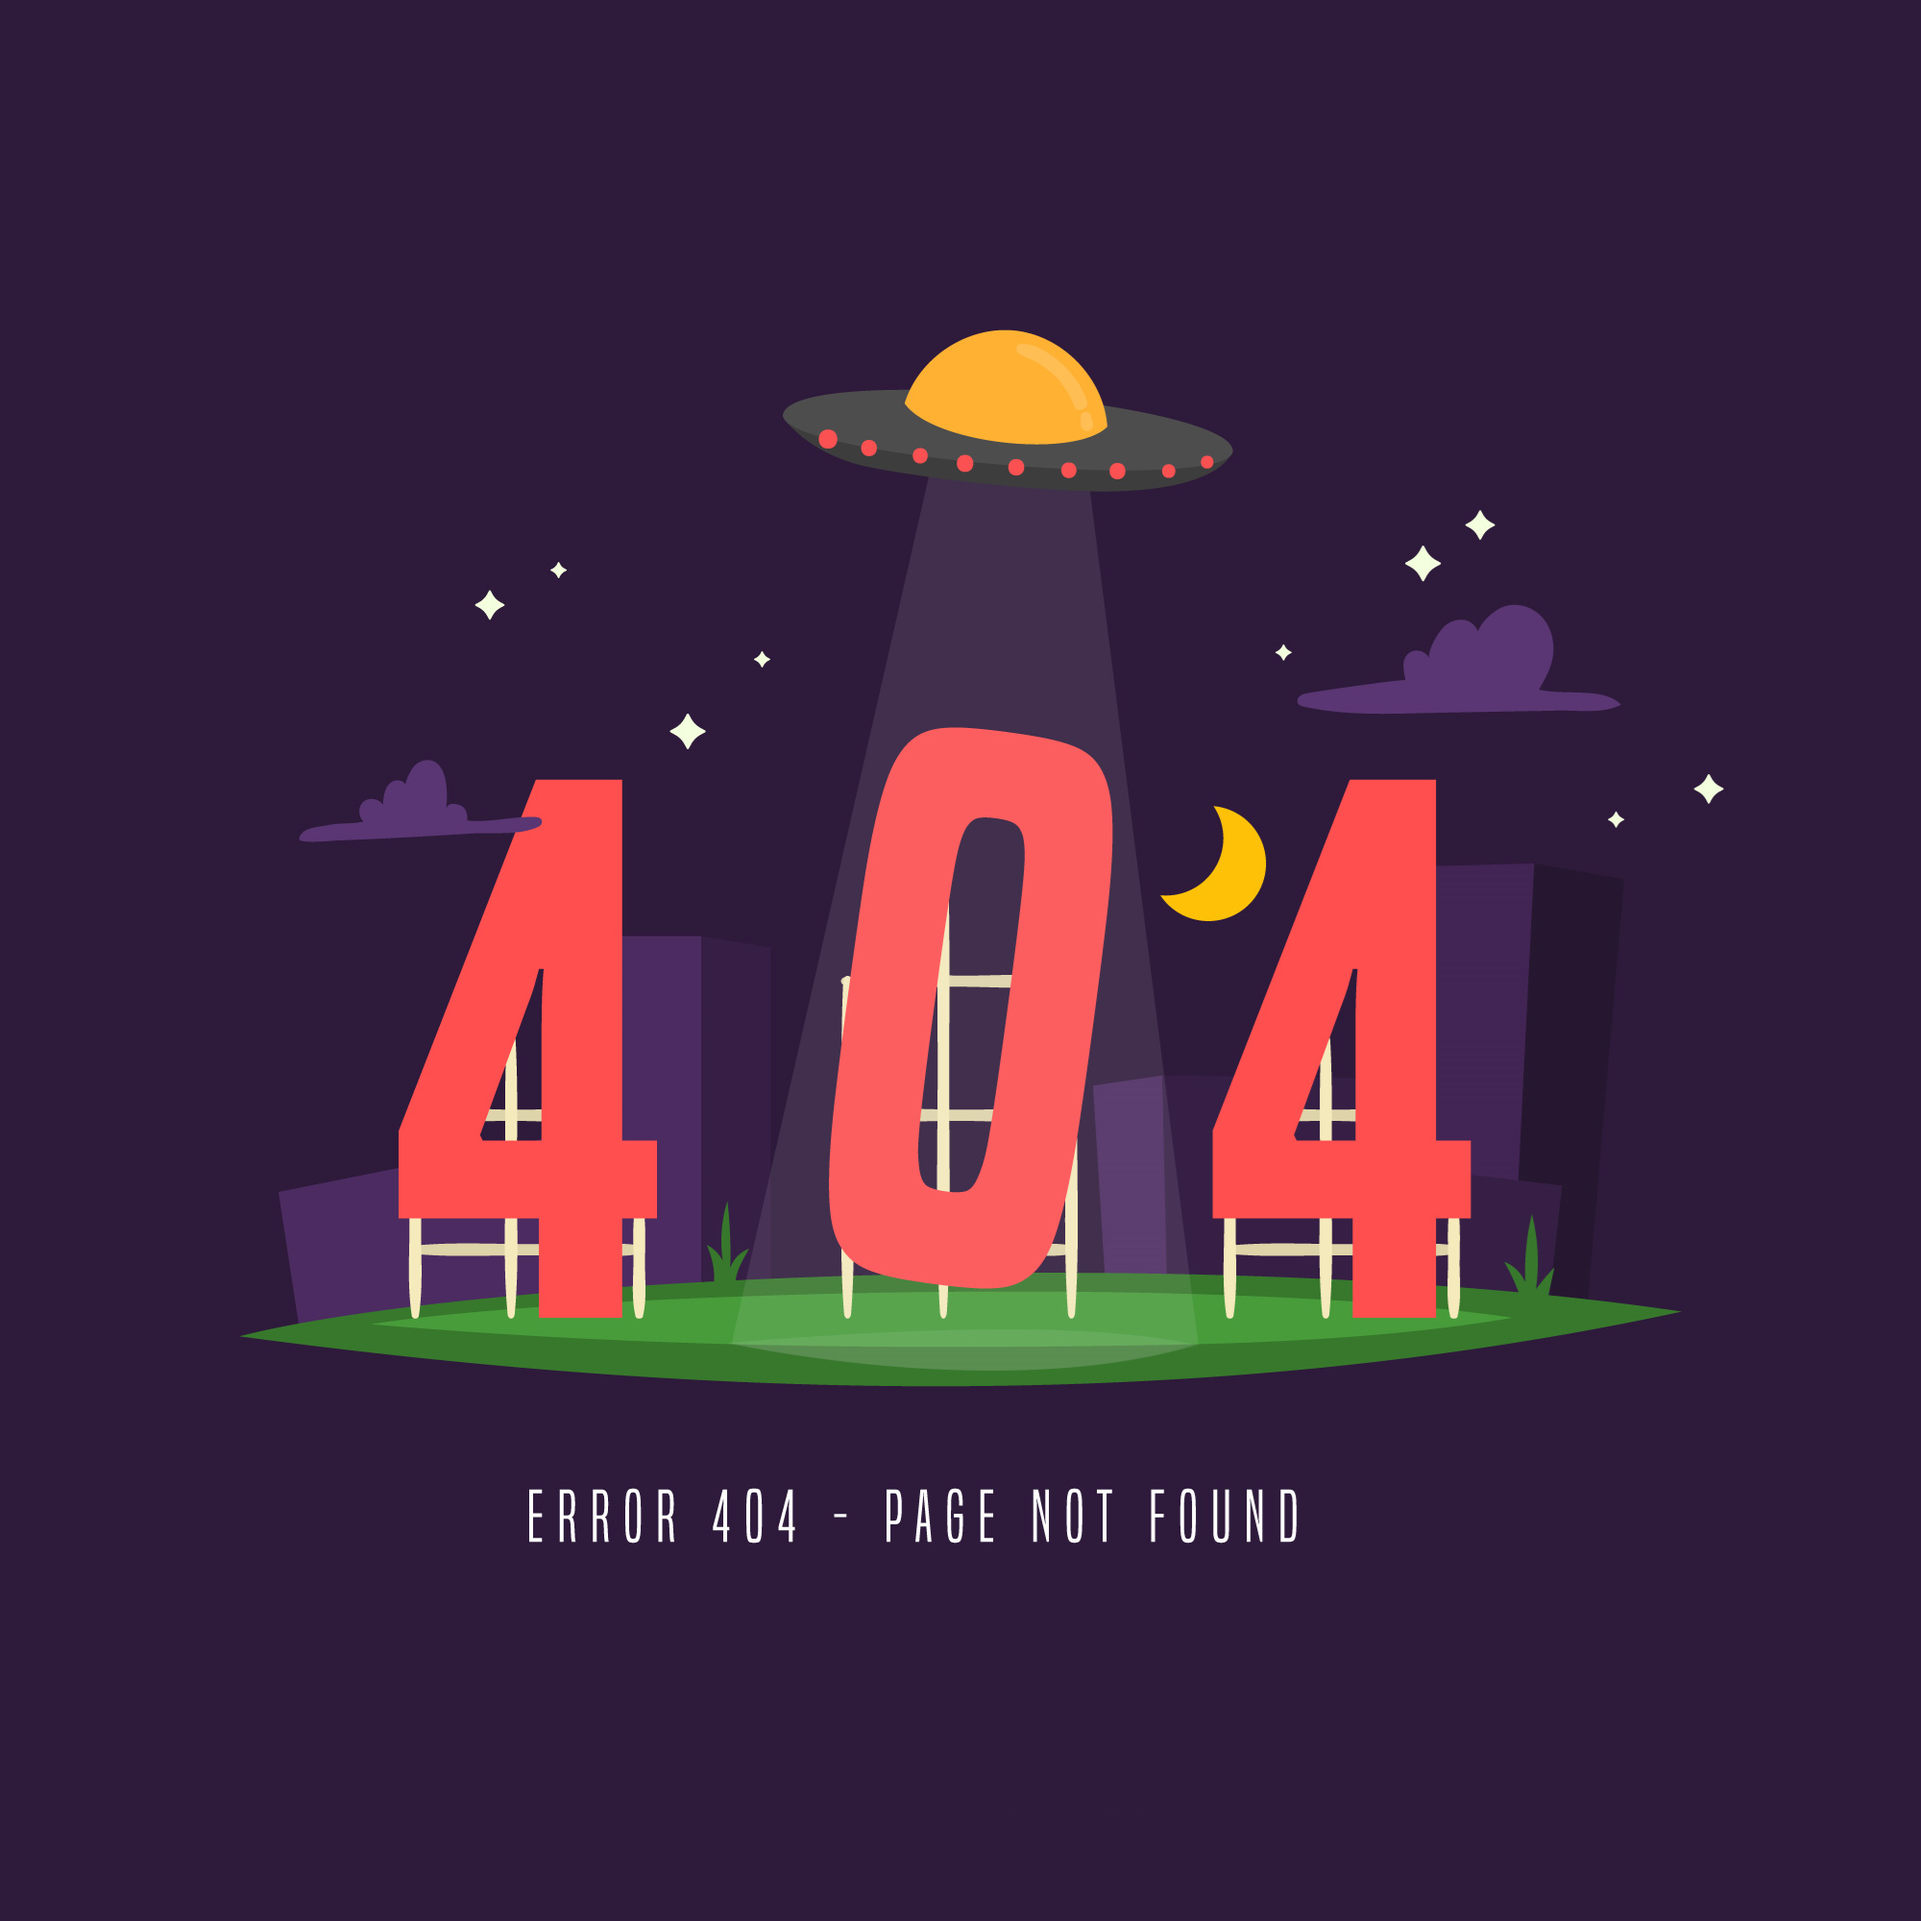
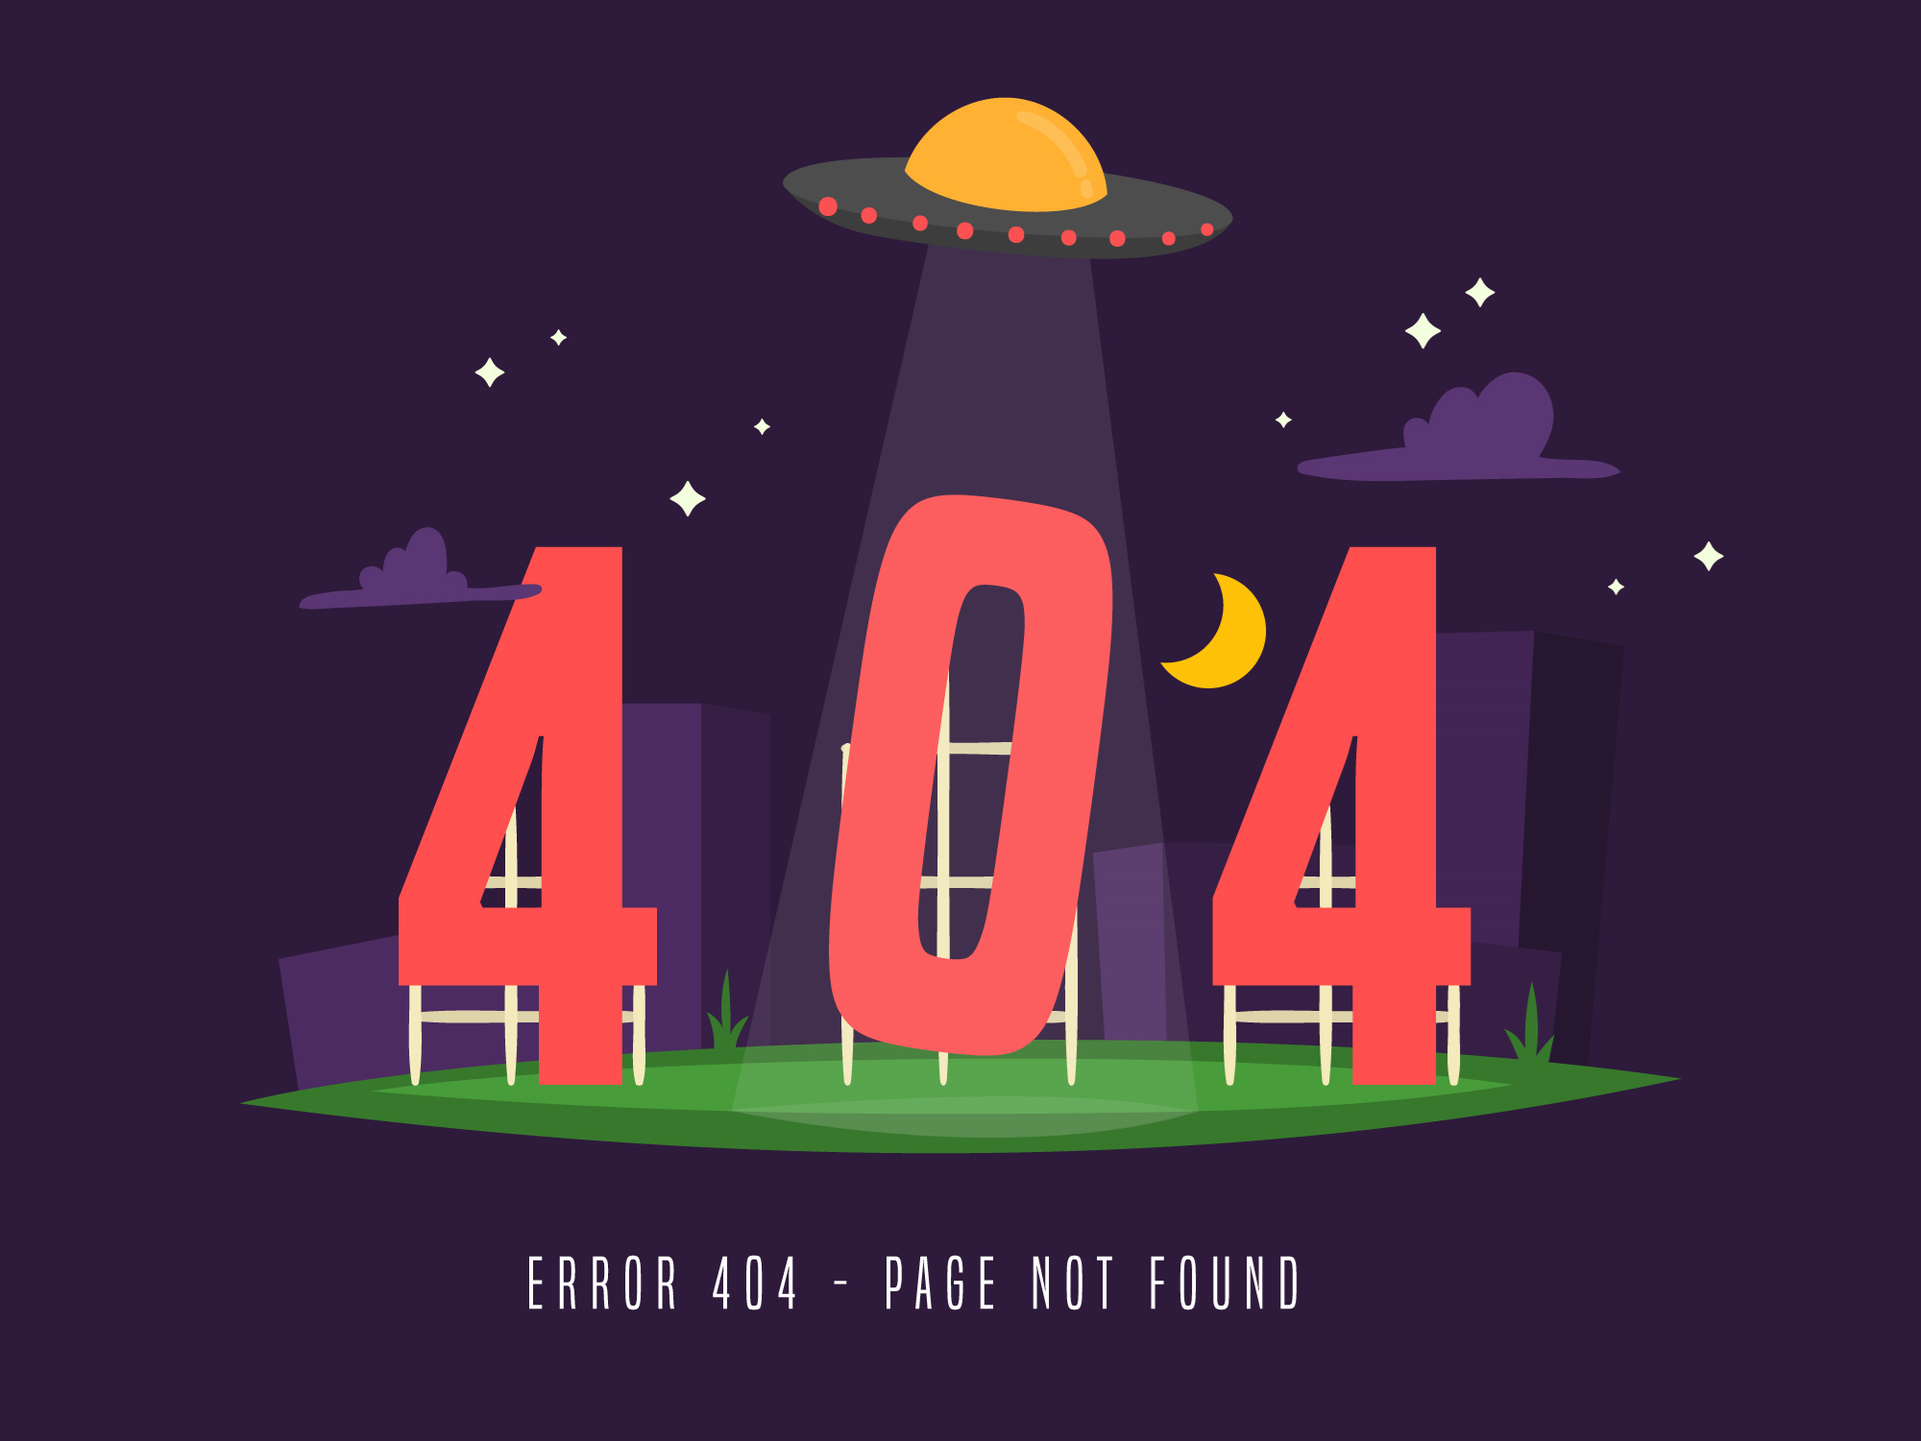
reponsividade 404

diff --git a/src/css/style.css b/src/css/style.css
@@ -134,13 +134,22 @@ main {
 
 .page_not_found {
   width: 100%;
-  height: 100%;
-  background-color: #2e1b3b;
-  text-align: center;
+  height: -moz-fit-content;
+  height: fit-content;
+  display: flex;
+  justify-content: center;
+  gap: 0;
+  flex-direction: row;
+  align-items: center;
+  flex-wrap: nowrap;
+  margin-top: 3rem;
 }
 .page_not_found img {
-  max-width: 1000px;
-  vertical-align: middle;
+  width: 70%;
+  height: auto;
+  background-color: transparent;
+  border: 1px solid transparent;
+  border-radius: 20px;
 }
 
 .body-cadastro {
@@ -520,5 +529,9 @@ footer .parceria img {
     flex-direction: column;
     align-items: center;
     flex-wrap: nowrap;
+  }
+  .page_not_found img {
+    width: 100%;
+    height: auto;
   }
 }/*# sourceMappingURL=style.css.map */

diff --git a/src/css/style.scss b/src/css/style.scss
@@ -108,13 +108,13 @@ main {
 }
 
 .page_not_found {
-  @include mixins.size(100%, 100%);
-  background-color: #2e1b3b;
-  text-align: center;
+  @include mixins.size(100%, fit-content);
+  @include mixins.flex(center, 0);
+  margin-top: 3rem;
 
   img {
-    max-width: 1000px;
-    vertical-align: middle;
+    @include mixins.size(70%, auto);
+    @include mixins.div-config(transparent, transparent, 20px);
   }
 }
 
@@ -443,6 +443,13 @@ footer {
 
     .footer_container {
       @include mixins.flex(space-around, 3rem, column, center);
+    }
+  }
+
+  // 404
+  .page_not_found {
+    img {
+      @include mixins.size(100%, auto);
     }
   }
 }

diff --git a/src/Pages/PageNotFound.jsx b/src/Pages/PageNotFound.jsx
@@ -2,8 +2,15 @@ import bg from "../assets/404.png";
 
 export default function PageNotFound() {
   return (
-    <div className="page_not_found">
-      <img src={bg} />
-    </div>
+    <main>
+      <hr className="hr-normal" />
+      <div className="main_container">
+        <h1>404 - Página não encontrada</h1>
+        <h4>Infelizmente, não encontramos essa página. Tente voltar para a página anterior e abrir novamente</h4>
+        <div className="page_not_found">
+          <img src={bg} />
+        </div>
+      </div>
+    </main>
   );
 }
